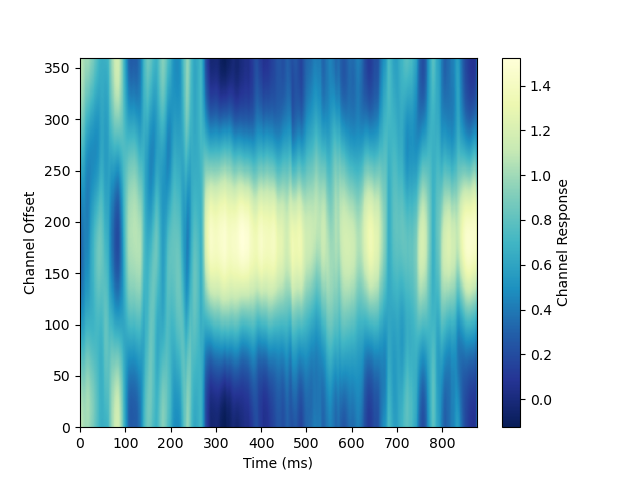
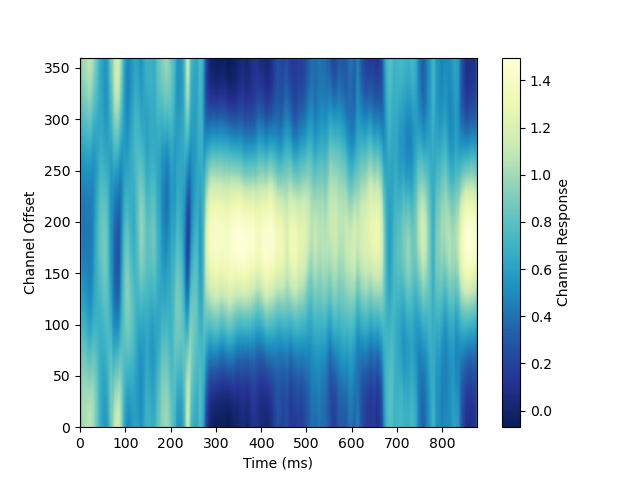
Replicate total alpha power IEM across subjects

diff --git a/code/replicate_total_power_iem.py b/code/replicate_total_power_iem.py
@@ -178,6 +178,13 @@ def replicate_all_subjs(
         subj_mean_channel_offset = replicate_one_subj(subj)
         mean_channel_offsets.append(subj_mean_channel_offset)
 
+    # Combine channel offsets across subjects
+    mean_channel_offset_all_subjs = np.mean(mean_channel_offsets, axis=0)
+
+    # Plot channel offset across subjects
+    plot_channel_offset(
+        mean_channel_offset_all_subjs, save_fname='channel_offset_all')
+
 
 if __name__ == '__main__':
     replicate_all_subjs()
